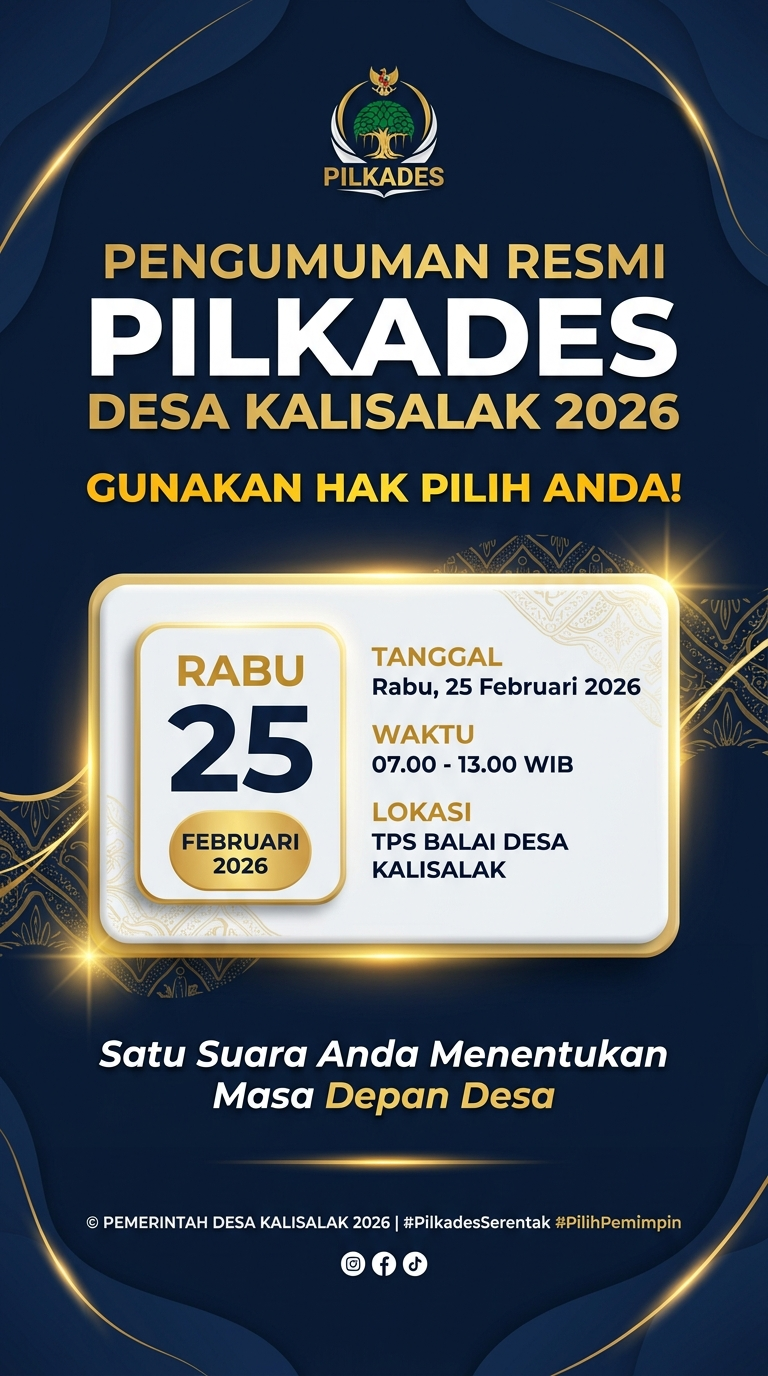
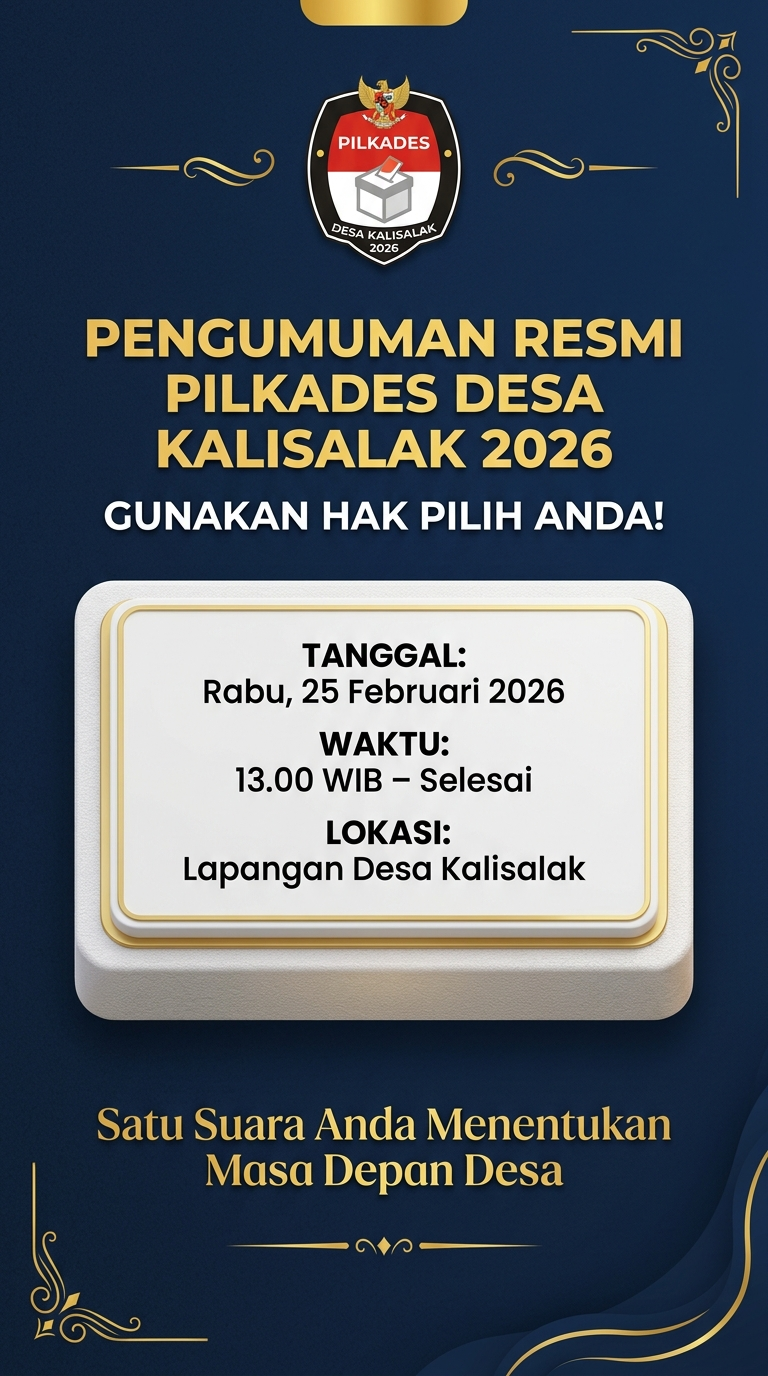
fix: update election hours to 13.00-Selesai, location to Lapangan Kalisalak, and domisili to KTP/KK Berdomisili di Desa Kalisalak

diff --git a/src/components/canvas/AlurSheet.jsx b/src/components/canvas/AlurSheet.jsx
@@ -18,8 +18,8 @@ export default function AlurSheet() {
   const steps3D = [
     {
       no: 1,
-      title: 'Pendaftaran & e-KTP',
-      desc: 'Tunjukkan C6 & e-KTP kepada petugas KPPS di pintu masuk TPS.',
+      title: 'Pendaftaran & KTP/KK',
+      desc: 'Tunjukkan C6 & KTP/KK Berdomisili di Desa Kalisalak kepada petugas KPPS.',
       icon: <IdCard className="w-4 h-4 text-cyan-400" />,
       color: '#06b6d4',
       bgGrad: 'linear-gradient(135deg, rgba(6,182,212,0.15) 0%, rgba(8,145,178,0.25) 100%)'

diff --git a/src/data/defaultData.js b/src/data/defaultData.js
@@ -9,7 +9,7 @@ export const DEFAULT_POSTER_DATA = {
   
   // Banner Hari-H & Info Pemilihan
   inputHariTanggal: 'FEBRUARI 2027',
-  inputWaktuTPS: 'Pukul 07.00 WIB - SELESAI',
+  inputWaktuTPS: 'Pukul 13.00 WIB - SELESAI',
   inputTempatTPS: 'Lapangan Desa Kalisalak',
   inputHotline: '0878-3018-8452 / 0857-8635-5600',
   inputWebsiteUrl: 'https://kalisalak-tegal.desa.id/pilkades',
